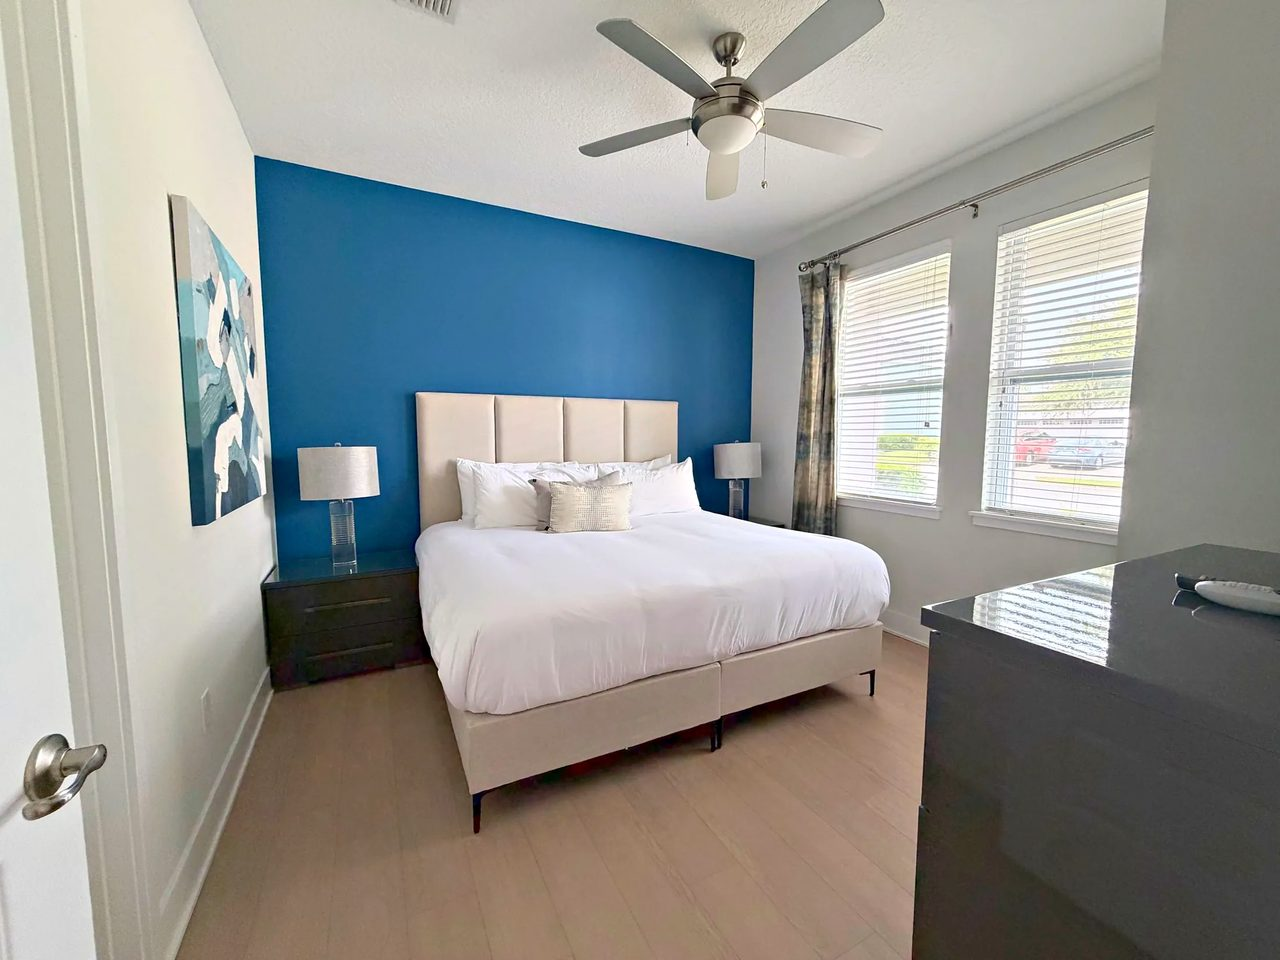
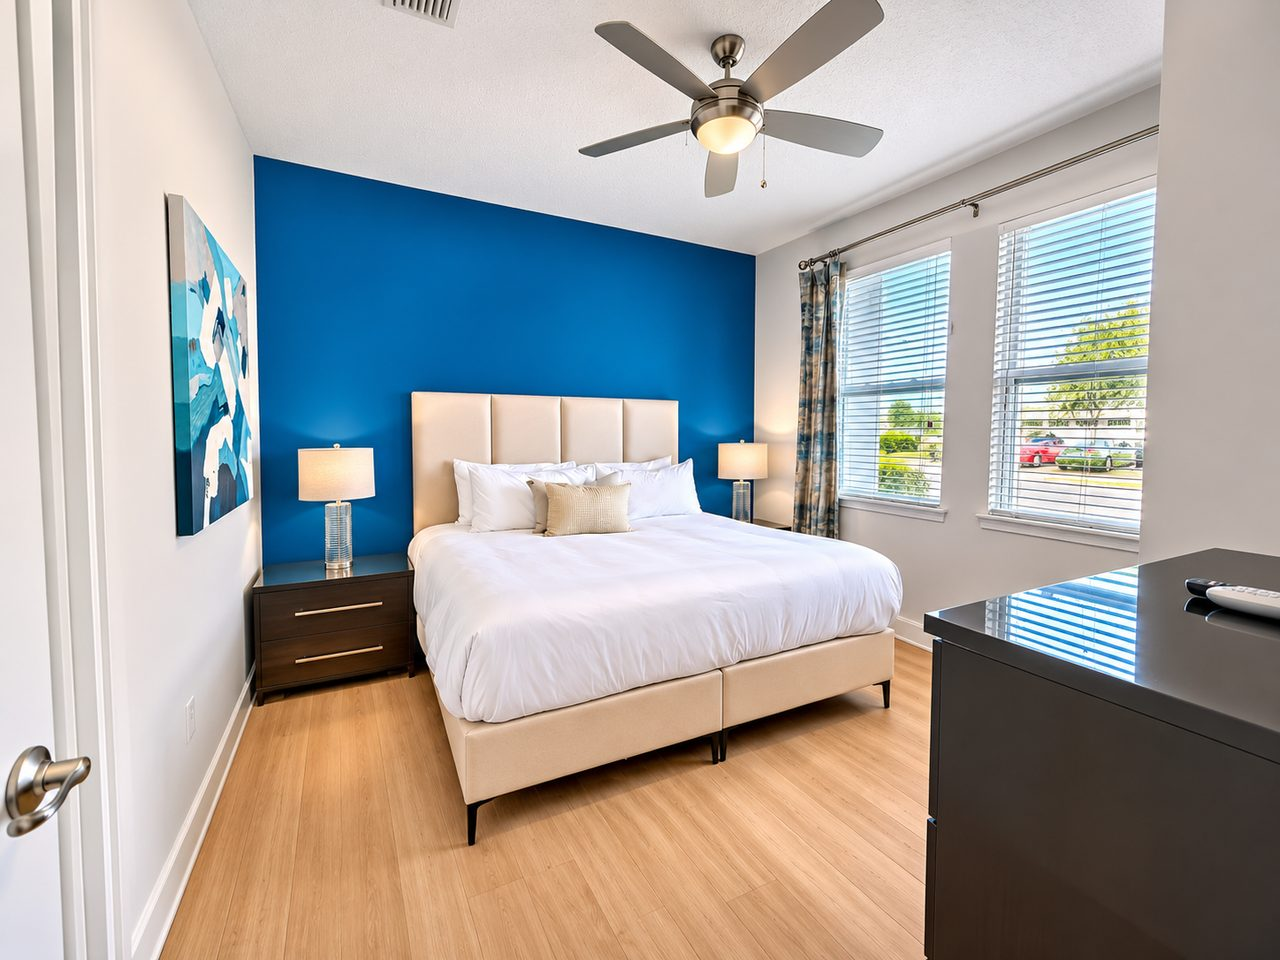
Replace navy bedroom photo with the enhanced version

diff --git a/index.html b/index.html
@@ -9,7 +9,7 @@
 
   <meta property="og:title" content="Villa Serena · 8-Bedroom Private Pool Villa">
   <meta property="og:description" content="8 bedrooms · 8 bathrooms · 13 beds · private pool. Book your family's Orlando stay direct.">
-  <meta property="og:image" content="assets/img/pool-lanai.jpg?v=30">
+  <meta property="og:image" content="assets/img/pool-lanai.jpg?v=31">
   <meta property="og:type" content="website">
 
   <link rel="icon" href="assets/favicon.svg" type="image/svg+xml">
@@ -17,8 +17,8 @@
   <link rel="preconnect" href="https://fonts.gstatic.com" crossorigin>
   <link href="https://fonts.googleapis.com/css2?family=Newsreader:ital,opsz,wght@0,6..72,400;0,6..72,500;1,6..72,400&family=Instrument+Sans:wght@400;500;600&display=swap" rel="stylesheet">
 
-  <link rel="preload" as="image" href="assets/img/pool-lanai-1630.webp?v=30"
-        imagesrcset="assets/img/pool-lanai-640.webp?v=30 640w, assets/img/pool-lanai-1024.webp?v=30 1024w, assets/img/pool-lanai-1630.webp?v=30 1630w"
+  <link rel="preload" as="image" href="assets/img/pool-lanai-1630.webp?v=31"
+        imagesrcset="assets/img/pool-lanai-640.webp?v=31 640w, assets/img/pool-lanai-1024.webp?v=31 1024w, assets/img/pool-lanai-1630.webp?v=31 1630w"
         imagesizes="100vw" type="image/webp">
   <link rel="stylesheet" href="css/styles.css">
 </head>
@@ -79,9 +79,9 @@
   <div class="hero-media">
     <picture>
       <source type="image/webp"
-              srcset="assets/img/pool-lanai-640.webp?v=30 640w, assets/img/pool-lanai-1024.webp?v=30 1024w, assets/img/pool-lanai-1630.webp?v=30 1630w"
+              srcset="assets/img/pool-lanai-640.webp?v=31 640w, assets/img/pool-lanai-1024.webp?v=31 1024w, assets/img/pool-lanai-1630.webp?v=31 1630w"
               sizes="100vw">
-      <img src="assets/img/pool-lanai.jpg?v=30" alt="The villa's private pool and spa with sun loungers and a covered lanai" width="1630" height="965" fetchpriority="high">
+      <img src="assets/img/pool-lanai.jpg?v=31" alt="The villa's private pool and spa with sun loungers and a covered lanai" width="1630" height="965" fetchpriority="high">
     </picture>
   </div>
   <div class="hero-shade" aria-hidden="true"></div>
@@ -117,14 +117,14 @@
     <div class="welcome-media reveal">
       <figure class="wm-main">
         <picture>
-          <source type="image/webp" srcset="assets/img/exterior-front-640.webp?v=30 640w, assets/img/exterior-front-1024.webp?v=30 1024w, assets/img/exterior-front-1600.webp?v=30 1600w, assets/img/exterior-front-1632.webp?v=30 1632w" sizes="(min-width: 960px) 40vw, 90vw">
-          <img src="assets/img/exterior-front.jpg?v=30" alt="Front exterior of the two-storey villa with a paver driveway" width="1632" height="964" loading="lazy" decoding="async">
+          <source type="image/webp" srcset="assets/img/exterior-front-640.webp?v=31 640w, assets/img/exterior-front-1024.webp?v=31 1024w, assets/img/exterior-front-1600.webp?v=31 1600w, assets/img/exterior-front-1632.webp?v=31 1632w" sizes="(min-width: 960px) 40vw, 90vw">
+          <img src="assets/img/exterior-front.jpg?v=31" alt="Front exterior of the two-storey villa with a paver driveway" width="1632" height="964" loading="lazy" decoding="async">
         </picture>
       </figure>
       <figure class="wm-accent">
         <picture>
-          <source type="image/webp" srcset="assets/img/dining-living-640.webp?v=30 640w, assets/img/dining-living-1024.webp?v=30 1024w, assets/img/dining-living-1448.webp?v=30 1448w" sizes="(min-width: 960px) 22vw, 50vw">
-          <img src="assets/img/dining-living.jpg?v=30" alt="Open-plan dining area with a large table and the living room beyond" width="1448" height="1086" loading="lazy" decoding="async">
+          <source type="image/webp" srcset="assets/img/dining-living-640.webp?v=31 640w, assets/img/dining-living-1024.webp?v=31 1024w, assets/img/dining-living-1448.webp?v=31 1448w" sizes="(min-width: 960px) 22vw, 50vw">
+          <img src="assets/img/dining-living.jpg?v=31" alt="Open-plan dining area with a large table and the living room beyond" width="1448" height="1086" loading="lazy" decoding="async">
         </picture>
       </figure>
           </div>
@@ -135,15 +135,15 @@
 <section class="photo-band" aria-label="The kitchen and living room">
   <figure>
     <picture>
-      <source type="image/webp" srcset="assets/img/kitchen-640.webp?v=30 640w, assets/img/kitchen-1024.webp?v=30 1024w, assets/img/kitchen-1600.webp?v=30 1600w, assets/img/kitchen-1634.webp?v=30 1634w" sizes="(min-width: 760px) 50vw, 100vw">
-      <img src="assets/img/kitchen.jpg?v=30" alt="Kitchen with dark cabinets, stainless appliances and an island with four bar stools" width="1634" height="962" loading="lazy" decoding="async">
+      <source type="image/webp" srcset="assets/img/kitchen-640.webp?v=31 640w, assets/img/kitchen-1024.webp?v=31 1024w, assets/img/kitchen-1600.webp?v=31 1600w, assets/img/kitchen-1634.webp?v=31 1634w" sizes="(min-width: 760px) 50vw, 100vw">
+      <img src="assets/img/kitchen.jpg?v=31" alt="Kitchen with dark cabinets, stainless appliances and an island with four bar stools" width="1634" height="962" loading="lazy" decoding="async">
     </picture>
     <figcaption>Kitchen</figcaption>
   </figure>
   <figure>
     <picture>
-      <source type="image/webp" srcset="assets/img/living-room-640.webp?v=30 640w, assets/img/living-room-1024.webp?v=30 1024w, assets/img/living-room-1536.webp?v=30 1536w" sizes="(min-width: 760px) 50vw, 100vw">
-      <img src="assets/img/living-room.jpg?v=30" alt="Living room with sectional sofa and sliding doors to the pool" width="1536" height="1024" loading="lazy" decoding="async">
+      <source type="image/webp" srcset="assets/img/living-room-640.webp?v=31 640w, assets/img/living-room-1024.webp?v=31 1024w, assets/img/living-room-1536.webp?v=31 1536w" sizes="(min-width: 760px) 50vw, 100vw">
+      <img src="assets/img/living-room.jpg?v=31" alt="Living room with sectional sofa and sliding doors to the pool" width="1536" height="1024" loading="lazy" decoding="async">
     </picture>
     <figcaption>Living room</figcaption>
   </figure>
@@ -250,20 +250,20 @@
     <div class="villa-band reveal">
       <figure>
         <picture>
-          <source type="image/webp" srcset="assets/img/bedroom-twin-beds-640.webp?v=30 640w, assets/img/bedroom-twin-beds-1024.webp?v=30 1024w, assets/img/bedroom-twin-beds-1446.webp?v=30 1446w" sizes="(min-width: 960px) 33vw, 100vw">
-          <img src="assets/img/bedroom-twin-beds.jpg?v=30" alt="Bedroom with two beds and a tall upholstered headboard" width="1446" height="1087" loading="lazy" decoding="async">
+          <source type="image/webp" srcset="assets/img/bedroom-twin-beds-640.webp?v=31 640w, assets/img/bedroom-twin-beds-1024.webp?v=31 1024w, assets/img/bedroom-twin-beds-1446.webp?v=31 1446w" sizes="(min-width: 960px) 33vw, 100vw">
+          <img src="assets/img/bedroom-twin-beds.jpg?v=31" alt="Bedroom with two beds and a tall upholstered headboard" width="1446" height="1087" loading="lazy" decoding="async">
         </picture>
       </figure>
       <figure>
         <picture>
-          <source type="image/webp" srcset="assets/img/bunk-room-640.webp?v=30 640w, assets/img/bunk-room-1024.webp?v=30 1024w, assets/img/bunk-room-1448.webp?v=30 1448w" sizes="(min-width: 960px) 33vw, 100vw">
-          <img src="assets/img/bunk-room.jpg?v=30" alt="Kids' bunk room with a mural wall" width="1448" height="1086" loading="lazy" decoding="async">
+          <source type="image/webp" srcset="assets/img/bunk-room-640.webp?v=31 640w, assets/img/bunk-room-1024.webp?v=31 1024w, assets/img/bunk-room-1448.webp?v=31 1448w" sizes="(min-width: 960px) 33vw, 100vw">
+          <img src="assets/img/bunk-room.jpg?v=31" alt="Kids' bunk room with a mural wall" width="1448" height="1086" loading="lazy" decoding="async">
         </picture>
       </figure>
       <figure>
         <picture>
-          <source type="image/webp" srcset="assets/img/bathroom-double-vanity-640.webp?v=30 640w, assets/img/bathroom-double-vanity-1024.webp?v=30 1024w, assets/img/bathroom-double-vanity-1600.webp?v=30 1600w, assets/img/bathroom-double-vanity-1645.webp?v=30 1645w" sizes="(min-width: 960px) 33vw, 100vw">
-          <img src="assets/img/bathroom-double-vanity.jpg?v=30" alt="Bathroom with a double vanity, glass shower and tub" width="1645" height="956" loading="lazy" decoding="async">
+          <source type="image/webp" srcset="assets/img/bathroom-double-vanity-640.webp?v=31 640w, assets/img/bathroom-double-vanity-1024.webp?v=31 1024w, assets/img/bathroom-double-vanity-1600.webp?v=31 1600w, assets/img/bathroom-double-vanity-1645.webp?v=31 1645w" sizes="(min-width: 960px) 33vw, 100vw">
+          <img src="assets/img/bathroom-double-vanity.jpg?v=31" alt="Bathroom with a double vanity, glass shower and tub" width="1645" height="956" loading="lazy" decoding="async">
         </picture>
       </figure>
     </div>
@@ -277,9 +277,9 @@
       <div class="amen-feature reveal">
         <figure class="amen-photo">
           <picture>
-            <source type="image/webp" media="(min-width: 641px) and (max-width: 960px)" srcset="assets/img/pool-deck-640.webp?v=30 640w, assets/img/pool-deck-1024.webp?v=30 1024w, assets/img/pool-deck-1206.webp?v=30 1206w" sizes="100vw">
-            <source type="image/webp" srcset="assets/img/pool-deck-tall-640.webp?v=30 640w, assets/img/pool-deck-tall-1024.webp?v=30 1024w, assets/img/pool-deck-tall-1086.webp?v=30 1086w" sizes="(min-width: 960px) 45vw, 100vw">
-            <img src="assets/img/pool-deck-tall.jpg?v=30" alt="Pool deck with spa, loungers and outdoor dining under a blue sky" width="1086" height="1448" loading="lazy" decoding="async">
+            <source type="image/webp" media="(min-width: 641px) and (max-width: 960px)" srcset="assets/img/pool-deck-640.webp?v=31 640w, assets/img/pool-deck-1024.webp?v=31 1024w, assets/img/pool-deck-1206.webp?v=31 1206w" sizes="100vw">
+            <source type="image/webp" srcset="assets/img/pool-deck-tall-640.webp?v=31 640w, assets/img/pool-deck-tall-1024.webp?v=31 1024w, assets/img/pool-deck-tall-1086.webp?v=31 1086w" sizes="(min-width: 960px) 45vw, 100vw">
+            <img src="assets/img/pool-deck-tall.jpg?v=31" alt="Pool deck with spa, loungers and outdoor dining under a blue sky" width="1086" height="1448" loading="lazy" decoding="async">
           </picture>
           <figcaption>
             <strong>Fully private pool area</strong>
@@ -337,29 +337,29 @@
     <div class="amen-strip reveal" aria-label="More of the villa">
       <figure>
         <picture>
-          <source type="image/webp" srcset="assets/img/sitting-area-640.webp?v=30 640w, assets/img/sitting-area-1024.webp?v=30 1024w, assets/img/sitting-area-1448.webp?v=30 1448w" sizes="(min-width: 960px) 25vw, 70vw">
-          <img src="assets/img/sitting-area.jpg?v=30" alt="Sitting area with two armchairs and large blue and gold artwork" width="1448" height="1086" loading="lazy" decoding="async">
+          <source type="image/webp" srcset="assets/img/sitting-area-640.webp?v=31 640w, assets/img/sitting-area-1024.webp?v=31 1024w, assets/img/sitting-area-1448.webp?v=31 1448w" sizes="(min-width: 960px) 25vw, 70vw">
+          <img src="assets/img/sitting-area.jpg?v=31" alt="Sitting area with two armchairs and large blue and gold artwork" width="1448" height="1086" loading="lazy" decoding="async">
         </picture>
         <figcaption>Sitting area</figcaption>
       </figure>
       <figure>
         <picture>
-          <source type="image/webp" srcset="assets/img/home-theater-640.webp?v=30 640w, assets/img/home-theater-1024.webp?v=30 1024w, assets/img/home-theater-1540.webp?v=30 1540w" sizes="(min-width: 960px) 25vw, 70vw">
-          <img src="assets/img/home-theater.jpg?v=30" alt="Home theater with a large screen and recliner seating" width="1540" height="1021" loading="lazy" decoding="async">
+          <source type="image/webp" srcset="assets/img/home-theater-640.webp?v=31 640w, assets/img/home-theater-1024.webp?v=31 1024w, assets/img/home-theater-1540.webp?v=31 1540w" sizes="(min-width: 960px) 25vw, 70vw">
+          <img src="assets/img/home-theater.jpg?v=31" alt="Home theater with a large screen and recliner seating" width="1540" height="1021" loading="lazy" decoding="async">
         </picture>
         <figcaption>Home theater</figcaption>
       </figure>
       <figure>
         <picture>
-          <source type="image/webp" srcset="assets/img/game-room-640.webp?v=30 640w, assets/img/game-room-1024.webp?v=30 1024w, assets/img/game-room-1448.webp?v=30 1448w" sizes="(min-width: 960px) 25vw, 70vw">
-          <img src="assets/img/game-room.jpg?v=30" alt="Game room with table tennis, foosball and an arcade cabinet" width="1448" height="1086" loading="lazy" decoding="async">
+          <source type="image/webp" srcset="assets/img/game-room-640.webp?v=31 640w, assets/img/game-room-1024.webp?v=31 1024w, assets/img/game-room-1448.webp?v=31 1448w" sizes="(min-width: 960px) 25vw, 70vw">
+          <img src="assets/img/game-room.jpg?v=31" alt="Game room with table tennis, foosball and an arcade cabinet" width="1448" height="1086" loading="lazy" decoding="async">
         </picture>
         <figcaption>Game room</figcaption>
       </figure>
       <figure>
         <picture>
-          <source type="image/webp" srcset="assets/img/dining-room-640.webp?v=30 640w, assets/img/dining-room-1024.webp?v=30 1024w, assets/img/dining-room-1448.webp?v=30 1448w" sizes="(min-width: 960px) 25vw, 70vw">
-          <img src="assets/img/dining-room.jpg?v=30" alt="Dining room with a large white table and chandelier" width="1448" height="1086" loading="lazy" decoding="async">
+          <source type="image/webp" srcset="assets/img/dining-room-640.webp?v=31 640w, assets/img/dining-room-1024.webp?v=31 1024w, assets/img/dining-room-1448.webp?v=31 1448w" sizes="(min-width: 960px) 25vw, 70vw">
+          <img src="assets/img/dining-room.jpg?v=31" alt="Dining room with a large white table and chandelier" width="1448" height="1086" loading="lazy" decoding="async">
         </picture>
         <figcaption>Dining</figcaption>
       </figure>
@@ -431,8 +431,8 @@
 <section class="book" id="book">
   <div class="book-media" aria-hidden="true">
     <picture>
-      <source type="image/webp" srcset="assets/img/exterior-front-640.webp?v=30 640w, assets/img/exterior-front-1024.webp?v=30 1024w, assets/img/exterior-front-1600.webp?v=30 1600w, assets/img/exterior-front-1632.webp?v=30 1632w" sizes="100vw">
-      <img src="assets/img/exterior-front.jpg?v=30" alt="" width="1632" height="964" loading="lazy" decoding="async">
+      <source type="image/webp" srcset="assets/img/exterior-front-640.webp?v=31 640w, assets/img/exterior-front-1024.webp?v=31 1024w, assets/img/exterior-front-1600.webp?v=31 1600w, assets/img/exterior-front-1632.webp?v=31 1632w" sizes="100vw">
+      <img src="assets/img/exterior-front.jpg?v=31" alt="" width="1632" height="964" loading="lazy" decoding="async">
     </picture>
   </div>
   <div class="book-shade" aria-hidden="true"></div>

diff --git a/js/main.js b/js/main.js
@@ -32,7 +32,7 @@ const PHOTOS = [
   { slug: "dining-living",         cat: "living",    caption: "Open-plan dining & living",          w: 1448, size: "wide", ws: [640, 1024, 1448] },
   { slug: "bedroom-twin-beds",     cat: "bedrooms",  caption: "Bedroom",                            w: 1446, size: "wide", ws: [640, 1024, 1446] },
   { slug: "kids-bedroom",          cat: "bedrooms",  caption: "Themed kids' bedroom",               w: 2560 },
-  { slug: "bedroom-navy",          cat: "bedrooms",  caption: "Bedroom",                            w: 2560 },
+  { slug: "bedroom-navy",          cat: "bedrooms",  caption: "Bedroom",                            w: 1448, ws: [640, 1024, 1448] },
   { slug: "bedroom-white",         cat: "bedrooms",  caption: "Bedroom",                            w: 2560 },
   { slug: "bedroom-two-beds",      cat: "bedrooms",  caption: "Bedroom",                            w: 1448, ws: [640, 1024, 1448] },
   { slug: "sitting-area",          cat: "living",    caption: "Sitting area",                       w: 1448, ws: [640, 1024, 1448] },
@@ -45,7 +45,7 @@ const PHOTOS = [
 ];
 const INITIAL_COUNT = 4;
 const IMG = "assets/img/";
-const IMG_V = "?v=30"; // bump when photos change so browsers fetch the new files
+const IMG_V = "?v=31"; // bump when photos change so browsers fetch the new files
 
 const widthsFor = (p) => p.ws || (p.w > 1206 ? [640, 1024, 1600, 2200] : [640, 1024, 1206]);
 const srcset = (p, max = Infinity) =>

diff --git a/README.md b/README.md
@@ -104,4 +104,4 @@ it, then repeat the polish and the wall recolour.
 
 Browsers keep photos for a day (see `vercel.json`). When a photo changes, bump the
 version tag so visitors get the new file right away: `IMG_V` at the top of `js/main.js`
-and every `?v=` in `index.html` (find and replace `?v=30` with `?v=31`).
+and every `?v=` in `index.html` (find and replace `?v=31` with `?v=32`).
